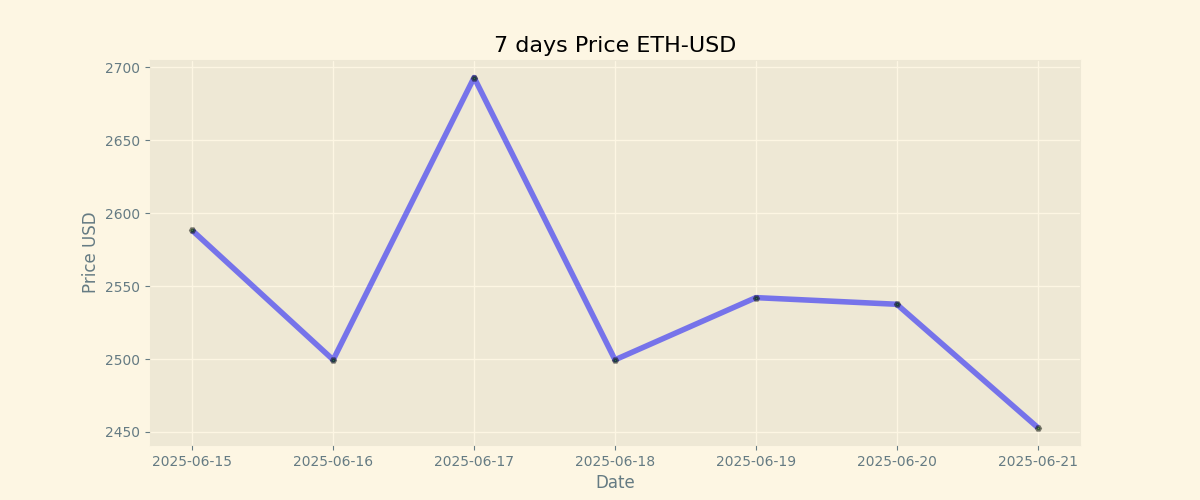
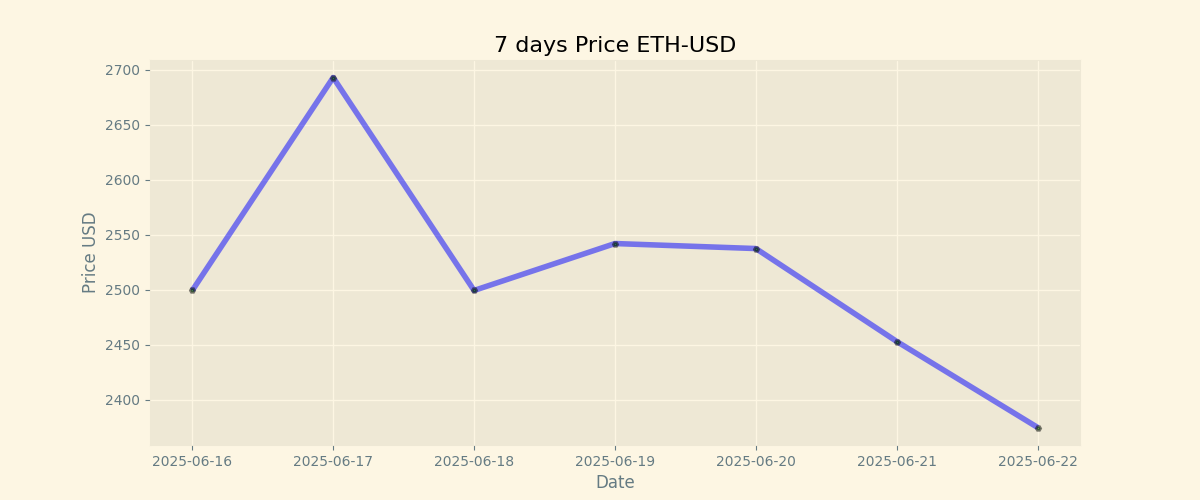
Duty Updates 2025-06-22

diff --git a/README.md b/README.md
@@ -10,7 +10,7 @@
 | Currency | Price           |
 | -------- | --------------- |
 | **BTC**  | **$ 108044.0** |
-| **ETH**  | **$ 2453.08** |
+| **ETH**  | **$ 2374.99** |
 
 ## BTC chart
 
